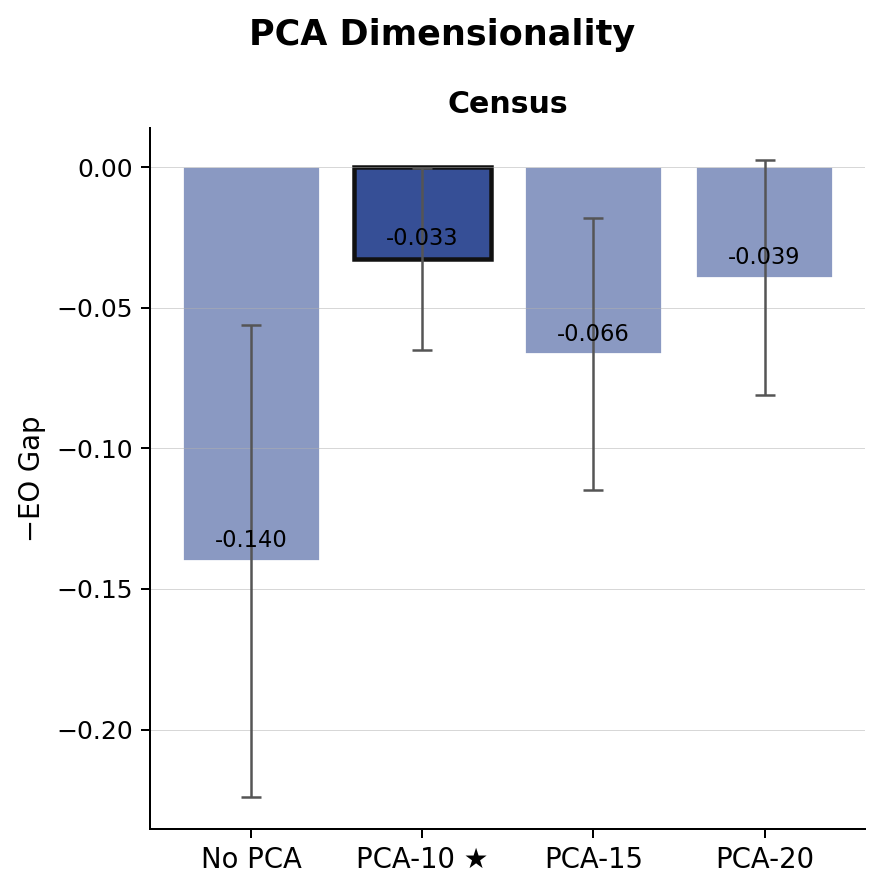
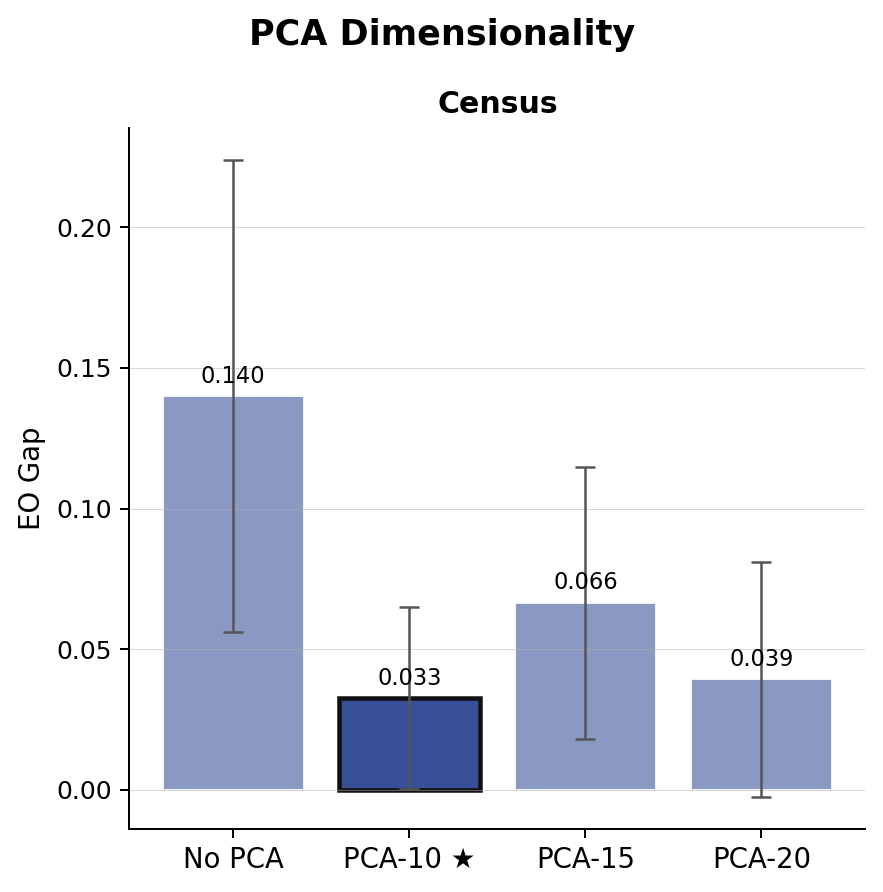
Use raw EO gap values and census-only ablation figures

diff --git a/paper_figures_v3/generate_ablation_figures_v2.py b/paper_figures_v3/generate_ablation_figures_v2.py
@@ -118,10 +118,8 @@ def get_alpha_eo(df): return stats(df, "alpha_eod_max_diff")
 
 
 def transform_eo(means, stds):
-    """Negate EO gap so higher bars indicate better fairness."""
-    means = np.array([float(m) for m in means])
-    stds  = np.array([float(s) for s in stds])
-    return (-means).tolist(), stds.tolist()
+    """Return raw EO gap values unchanged."""
+    return list(means), list(stds)
 
 
 def save_fig(name):
@@ -132,7 +130,7 @@ def save_fig(name):
 
 
 def make_bar_ax(ax, labels, means, stds, colors, hatches=None,
-                ylabel="\u2212EO Gap", title="", fontsize_labels=11,
+                ylabel="EO Gap", title="", fontsize_labels=11,
                 fontsize_ticks=10, fontsize_title=12):
     x = np.arange(len(labels))
     bars = ax.bar(x, means, yerr=stds, capsize=4,
